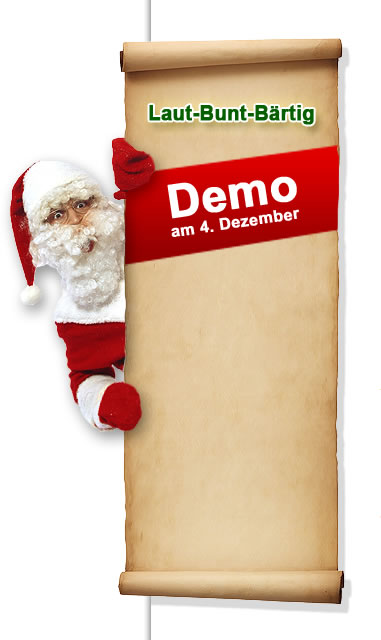
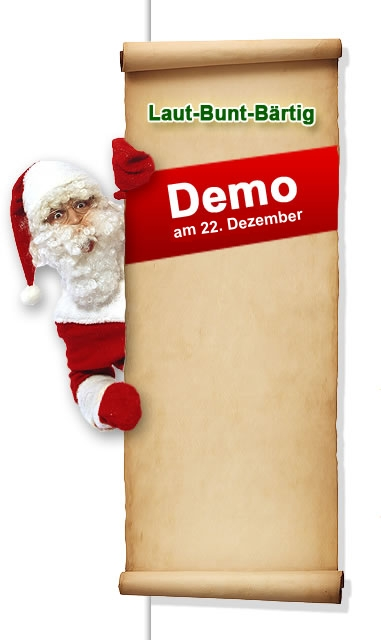
Update 2012

Changed region(s): [[0.4331, 0.2812, 0.8084, 0.375], [0.8661, 0.25, 0.895, 0.3125], [0.5486, 0.2812, 0.5774, 0.3125]]

diff --git a/index.html b/index.html
@@ -54,7 +54,7 @@ body {
 }
 #header {
 	height: 420px;
-	background: url(gfx/header.jpg);
+	background: url(gfx/header-2.gif);
 }
 #content {
 	min-height: 400px;
@@ -66,7 +66,7 @@ body {
 #content h1 {
 	font-size: 21px;
 	font-weight: bold;
-	color: #CC0000;
+	color: #BA0000;
 	padding: 0;
 	margin: 0;
 }
@@ -80,7 +80,7 @@ body {
 #footer {
 	position: relative;
 	height: 43px;
-	background: url(gfx/footer.jpg) no-repeat;
+	background: url(gfx/footer-1.gif) no-repeat;
 	text-align: right;
 	padding-right: 160px;
 	padding-top: 300px;
@@ -97,8 +97,9 @@ body {
 	position: absolute;
 	width: 150px;
 	height: 147px;
-	top: 50px;
+	top: 0px;
 	left: 180px;
+    display: none;
 }
 span.bold {
 	font-weight: 800;
@@ -186,23 +187,13 @@ h2 {
 <div id="terror">
   <div id="demo">
     <ul>
-      <li class="city spacer"><a href="http://piratenpad.de/weihnachtsstattangst">Berlin</a>, 14:00 Uhr</li>
-      <li>Alexanderplatz/Weltzeituhr</li>
-      <li class="city spacer"><a href="http://piratenpad.de/weihnachtsstattangst">Düsseldorf</a>, 15:00 Uhr</li>
-      <li>Hauptbahnhof</li>
       <li class="city spacer"><a href="http://kv-frankfurt.piratenpad.de/weihnachtsmannmadness">Frankfurt</a>, 14:00 Uhr</li>
-      <li>Zeil (Höhe Liebfrauenstraße)</li>
-      <li class="city spacer"><a href="http://piratenpad.de/Weihnachtsmannterroristen">Hamburg</a>, 18:00 Uhr</li>
-      <li>Hauptbahnhof</li>
-      <li class="city spacer"><a href="http://piraten-rlp.de/index.php/aktuelles/neuigkeiten/311-weihnacht-statt-angst">Koblenz</a>, 13:30 Uhr</li>
-      <li>Hauptbahnhof</li>
-      <li class="city spacer"><a href="http://wiki.piratenpartei.de/M%C3%BCnchen/Terrorangst">München</a>, 13:30 Uhr</li>
-      <li>Bahnhofsplatz</li>
+      <li>Zeil (H&ouml;he Liebfrauenstra&szlig;e)</li>
     </ul>
   </div>
   <div id="header"></div>
   <div id="content">
-    <h1>Frankfurt</h1>
+    <h1>Bilder &amp; Videos aus 2010 (Frankfurt)</h1>
     <div class="line"></div>
     <p><ul id="frankfurt" class="media">
       <li class="first"><h2>Bildergalerie</h2> (39 Fotos)
@@ -214,37 +205,41 @@ h2 {
     </ul>&nbsp;</p>
     <h1>Aufruf zu bundesweiten Demonstrationen</h1>
     <div class="line"></div>
-    <p>Die Piratenpartei ruft für den <span class="bold">04.12.2010</span> unter dem Motto <span class="bold">"Mit Freude, Freiheit und Demokratie gegen Terror!"</span> zur Teilnahme an Aktionen gegen die von Politik und Medien geschürte Terrorhysterie auf.</p>
-    <p>Als Weihnachtsmänner verkleidete <span class="bold">"Terroristen"</span> sollen auf die Gefahr aufmerksam machen, dass ganze Bevölkerungsgruppen auf Grund ihres Aussehens oder Gepäcks als "verdächtig" abgestempelt werden.
+    <p>Die Piratenpartei ruft f&uuml;r den <span class="bold">22.12.2012</span> unter dem Motto <span class="bold">"Mit Freude, Freiheit und Demokratie gegen Terror!"</span> zur Teilnahme an Aktionen gegen die von Politik und Medien gesch&uuml;rte Terrorhysterie auf.</p>
+    <p>Als Weihnachtsm&auml;ner verkleidete <span class="bold">"Terroristen"</span> sollen auf die Gefahr aufmerksam machen, dass ganze Bev&ouml;lkerungsgruppen auf Grund ihres Aussehens oder Gep&auml;cks als "verd&auml;chtig" abgestempelt werden.
     <p>
-    <p>Das weitergehende Motto der Aktionen lautet daher <span class="bold">"Keine Angst vor Männern mit Bärten".</span></p>
+    <p>Das weitergehende Motto der Aktionen lautet daher <span class="bold">"Keine Angst vor M&auml;nnern mit B&auml;rten".</span></p>
     <h1>Freude, Freiheit und Demokratie gegen Terror!</h1>
     <div class="line"></div>
-    <p>Dieser Tage wird die Angst vor einem terroristischen Anschlag in Deutschland mehr denn je geschürt.</p>
-    <p>Der Reichstag wird abgesperrt, auf Bahnhöfen werden schwer bewaffnete Polizisten aufgestellt und die Medien werden nicht müde, uns vor Männern mit Bärten und Omas mit Paketen zu warnen. </p>
-    <p>Erhart Körting (SPD) und Volker Kauder (CDU) geben prominent Terrorwarnungen heraus und verknüpfen diese mit der Forderung nach Denunziantentum.</p>
+    <p>Dieser Tage wird die Angst vor einem terroristischen Anschlag in Deutschland mehr denn je gesch&uuml;rt.</p>
+    <p>Der Reichstag wird abgesperrt, auf Bahnh&ouml;fen werden schwer bewaffnete Polizisten aufgestellt und die Medien werden nicht m&uuml;de, uns vor M&auml;nnern mit B&auml;rten und Omas mit Paketen zu warnen. </p>
+    <p>Erhart K&ouml;rting (SPD) und Volker Kauder (CDU) geben prominent Terrorwarnungen heraus und verkn&uuml;pfen diese mit der Forderung nach Denunziantentum.</p>
     <h1>Reale Gefahr durch Terrorhysterie</h1>
     <div class="line"></div>
-    <p>Seit bereits über einem Jahrzehnt versuchen die Regierenden und Behörden die eigenen Kompetenzen auf Kosten der Bürgerrechte auszuweiten und immer  größere Kontrolle über die Gesellschaft zu gewinnen. <br>
-      Die rationale Abwägung von Risiken wird von einer Ausnutzung irrationaler Ängste abgelöst.</p>
-    <p>Die wirklichen Gefahren sind banaler als Terror, sie lauern bei der Vergabe von Medikamenten und im Straßenverkehr. Tausende Menschen in Deutschland sterben jedes Jahr sinnlos auf Grund handfester Lobbyinteressen.</p>
-    <p>Die politisch gewollte Terrorhysterie ist eine reale Gefahr für die freiheitlich-demokratische Grundordnung. <br>
-      Die Unterhöhlung dieser Grundordnung durch ihre eigenen Hüter ist der größte Triumph des Terrorismus.</p>
+    <p>Seit bereits &Uuml;ber einem Jahrzehnt versuchen die Regierenden und Beh&ouml;rden die eigenen Kompetenzen auf Kosten der B&uuml;rgerrechte auszuweiten und immer  gr&ouml;&szlig;ere Kontrolle &uuml;ber die Gesellschaft zu gewinnen. <br>
+      Die rationale Abw&auml;ung von Risiken wird von einer Ausnutzung irrationaler &auml;ngste abgel&ouml;st.</p>
+    <p>Die wirklichen Gefahren sind banaler als Terror, sie lauern bei der Vergabe von Medikamenten und im Stra&szlig;enverkehr. Tausende Menschen in Deutschland sterben jedes Jahr sinnlos auf Grund handfester Lobbyinteressen.</p>
+    <p>Die politisch gewollte Terrorhysterie ist eine reale Gefahr f&uuml; die freiheitlich-demokratische Grundordnung. <br>
+      Die Unterh&ouml;lung dieser Grundordnung durch ihre eigenen H&uuml;er ist der gr&ouml;&szlig;te Triumph des Terrorismus.</p>
     <h1>Vorratsdatenspeicherung und Netzsperren</h1>
     <div class="line"></div>
-    <p>Sucht man nach den Gründen für die plötzliche Terrorhysterie, erkennt man eine klare sicherheitspolitische Agenda, die in den letzten Jahren nur durch eine starke außerparlamentarische Opposition eingedämmt werden konnte. </p>
+    <p>Sucht man nach den Gr&uuml;nden f&uuml;r die pl&ouml;zliche Terrorhysterie, erkennt man eine klare sicherheitspolitische Agenda, die in den letzten Jahren nur durch eine starke au&szlig;erparlamentarische Opposition einged&auml;mt werden konnte. </p>
     <p>Nicht nur die Vorratsdatenspeicherung wurde vom Bundesverfassungsgericht in ihrer vorhanden Form abgelehnt, auch das  Zugangserschwerungsgesetz ist bis heute nicht zur Anwendung gekommen. </p>
-    <p>Das Durchsetzen der Agenda hat weiter hohe Priorität. So ist es kein Zufall, dass zur Zeit Verhandlungen der EU zum Thema Netzsperren, Vorratsdatenspeicherung und Terrorismusbekämpfung stattfinden. Die Terrorwarnungen dienen der Legitimation einer Verschärfung der Sicherheitsgesetze.</p>
+    <p>Das Durchsetzen der Agenda hat weiter hohe Priorit&auml;t. So ist es kein Zufall, dass zur Zeit Verhandlungen der EU zum Thema Netzsperren, Vorratsdatenspeicherung und Terrorismusbek&auml;mpfung stattfinden. Die Terrorwarnungen dienen der Legitimation einer Versch&auml;rfung der Sicherheitsgesetze.</p>
     <h1>Wehrt euch jetzt!</h1>
     <div class="line"></div>
-    <p>Es ist kalt, vielen Menschen treibt die Sorge um, was man zu Weihnachten verschenken könnte - die Vorzeichen für erfolgreiche Demos könnten besser sein.</p>
+    <p>Es ist kalt, vielen Menschen treibt die Sorge um, was man zu Weihnachten verschenken k&ouml;nte - die Vorzeichen f&uuml;r erfolgreiche Demos k&ouml;nnten besser sein.</p>
     <p>Umso wichtiger ist es, zu mobilisieren und Gegenwind gegen Vorbereitungen tiefgreifender Einschnitte in die Freiheitsrechte zu erzeugen!</p>
-    <p>Lasst uns ein Zeichen der Integration setzen - das perfide Spiel um falsche Sicherheit und verstümmelte Freiheit darf nicht auf dem Rücken der Bevölkerung und insbesondere nicht der ausländisch aussehenden Mitbürger ausgetragen werden! </p>
-    <p>Soziale und wirtschaftliche Missstände in diesem Land - ja in ganz Europa -  dürfen nicht unter dem Deckmantel des Kampfes gegen den Terrorismus ignoriert und unter den Teppich gekehrt werden!</p>
+    <p>Lasst uns ein Zeichen der Integration setzen - das perfide Spiel um falsche Sicherheit und verst&uuml;mmelte Freiheit darf nicht auf dem R&uuml;cken der Bev&ouml;lkerung und insbesondere nicht der ausl&auml;ndisch aussehenden Mitb&uuml;rger ausgetragen werden! </p>
+    <p>Soziale und wirtschaftliche Missst&auml;de in diesem Land - ja in ganz Europa -  d&uuml;rfen nicht unter dem Deckmantel des Kampfes gegen den Terrorismus ignoriert und unter den Teppich gekehrt werden!</p>
+    <h1>SocialMedia Avatar</h1>
+    <div class="line"></div>
+    <p>Wir haben f&uuml;r euch einen Avatar. Diesen k&ouml;nnt ihr auf Facebook, Twitter, GooglePlus oder sonst irgendwo verwenden, habt Spa&szlig; mit dem!</p>
+    <p><img src="http://wiki.piratenpartei.de/wiki/images/9/9b/Socialmedia-avatar.jpg"></p>
     <br>
   </div>
   <div id="footer">
-    <div id="terrorneindanke"><img src="/gfx/terrorneindanke.gif" width="150" height="147" alt=""></div>
+    <!-- <div id="terrorneindanke"><img src="/gfx/terrorneindanke.gif" width="150" height="147" alt=""></div> -->
     <a href="http://www.piratenpartei-hessen.de/">Piratenpartei</a> <a href="http://www.piratenpartei-hessen.de/impressum">Impressum</a> </div>
 </div>
 <script type="text/javascript">
